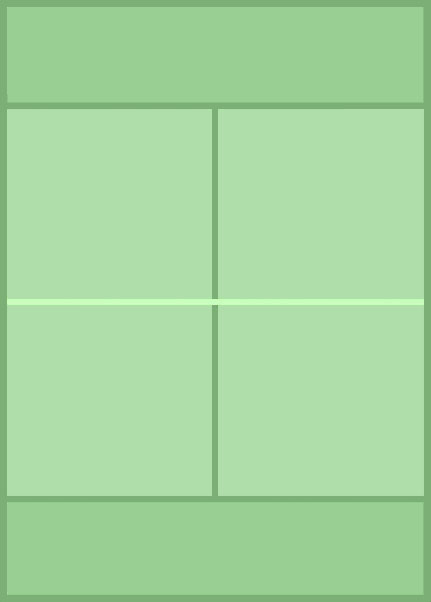
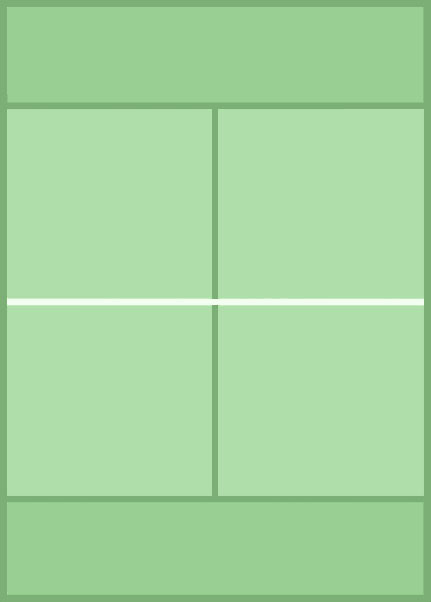
padel court fancy white

Changed region(s): [[0.0, 0.4784, 0.9954, 0.5083]]

diff --git a/client/templates/matches.html b/client/templates/matches.html
@@ -43,7 +43,7 @@
                         <img ng-show="match.team2Right === 'Team mate (female)'" src="img/female.jpg">
                         <img ng-show="match.team2Right === 'Empty'" src="img/blank.jpg">
                     </a>
-                    <img class="img-responsive" src="img/padel-court-fancy.jpg" width="200px">
+                    <img class="img-responsive" src="img/padel-court-fancy-white.jpg" width="200px">
                     <p class="time"><i class="fa fa-clock-o" aria-hidden="true"></i><span>{{ match.hour | date : "HH:mm" }} ({{match.duration}})</span></p>
                      <div class="navbar-right">
                         <div class="dropdown">
